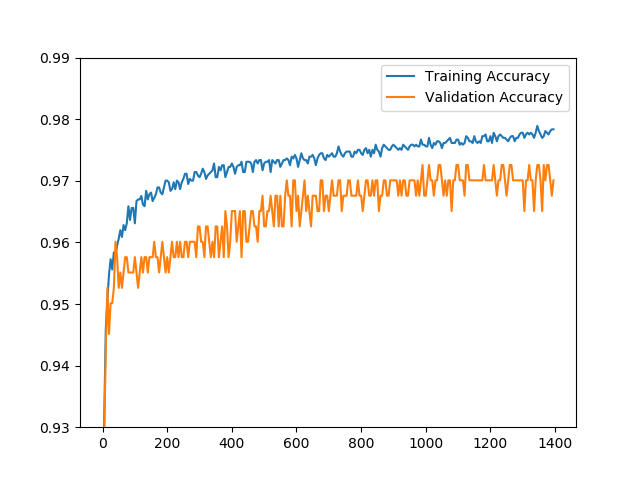
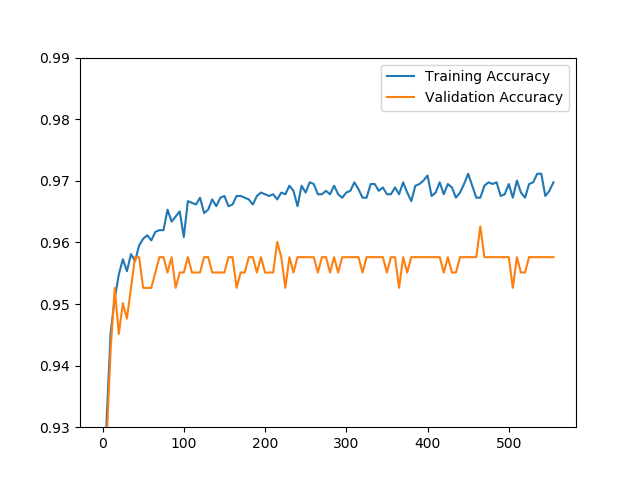
task3?

diff --git a/TDT4265-StarterCode-master/assignment1/task2a.py b/TDT4265-StarterCode-master/assignment1/task2a.py
@@ -35,6 +35,10 @@ def cross_entropy_loss(targets: np.ndarray, outputs: np.ndarray) -> float:
     N = y_hat.shape[0]
     c = 0
     for n in range(0,N):
+        if y_hat[n] > 0.9999999:
+            y_hat[n] = 0.9999999
+        if y_hat[n] <= 0.0000001:
+            y_hat[n] = 0.0000001
         c += y[n]*math.log(y_hat[n]) + (1-y[n])*math.log(1-y_hat[n])
     c = -1/N*c
     return c
@@ -62,7 +66,9 @@ class BinaryModel:
         size = X.shape[0]
         y = np.ones((size,1))
         temp = np.dot(self.w.transpose(), X.transpose()).transpose()
+        
         for index in range(0, len(y)):
+            #print("math.exp(-1*temp[index]): ", math.exp(-1*temp[index]))
             y[index] = 1/(1 + math.exp(-1*temp[index]))
         return y
 
@@ -80,7 +86,7 @@ class BinaryModel:
             f"Grad shape: {self.grad.shape}, w: {self.w.shape}"
         y_hat = outputs
         y = targets 
-        self.grad = -np.dot(X.transpose(), y - y_hat)/(X.shape[0])
+        self.grad = -np.dot(X.transpose(), y - y_hat)/(X.shape[0]) + 2*self.l2_reg_lambda*self.w
 
     def zero_grad(self) -> None:
         self.grad = None

diff --git a/TDT4265-StarterCode-master/assignment1/task2.py b/TDT4265-StarterCode-master/assignment1/task2.py
@@ -91,10 +91,10 @@ X_train, Y_train, X_val, Y_val, X_test, Y_test = utils.load_binary_dataset(
     category1, category2, validation_percentage)
 
 # hyperparameters
-num_epochs = 50
+num_epochs = 20
 learning_rate = 0.2
 batch_size = 128
-l2_reg_lambda = 0
+l2_reg_lambda = 0.1
 model, train_loss, val_loss, train_accuracy, val_accuracy = train(
     num_epochs=num_epochs,
     learning_rate=learning_rate,
@@ -132,3 +132,4 @@ utils.plot_loss(val_accuracy, "Validation Accuracy")
 plt.legend()
 plt.savefig("binary_train_accuracy.png")
 plt.show()
+
